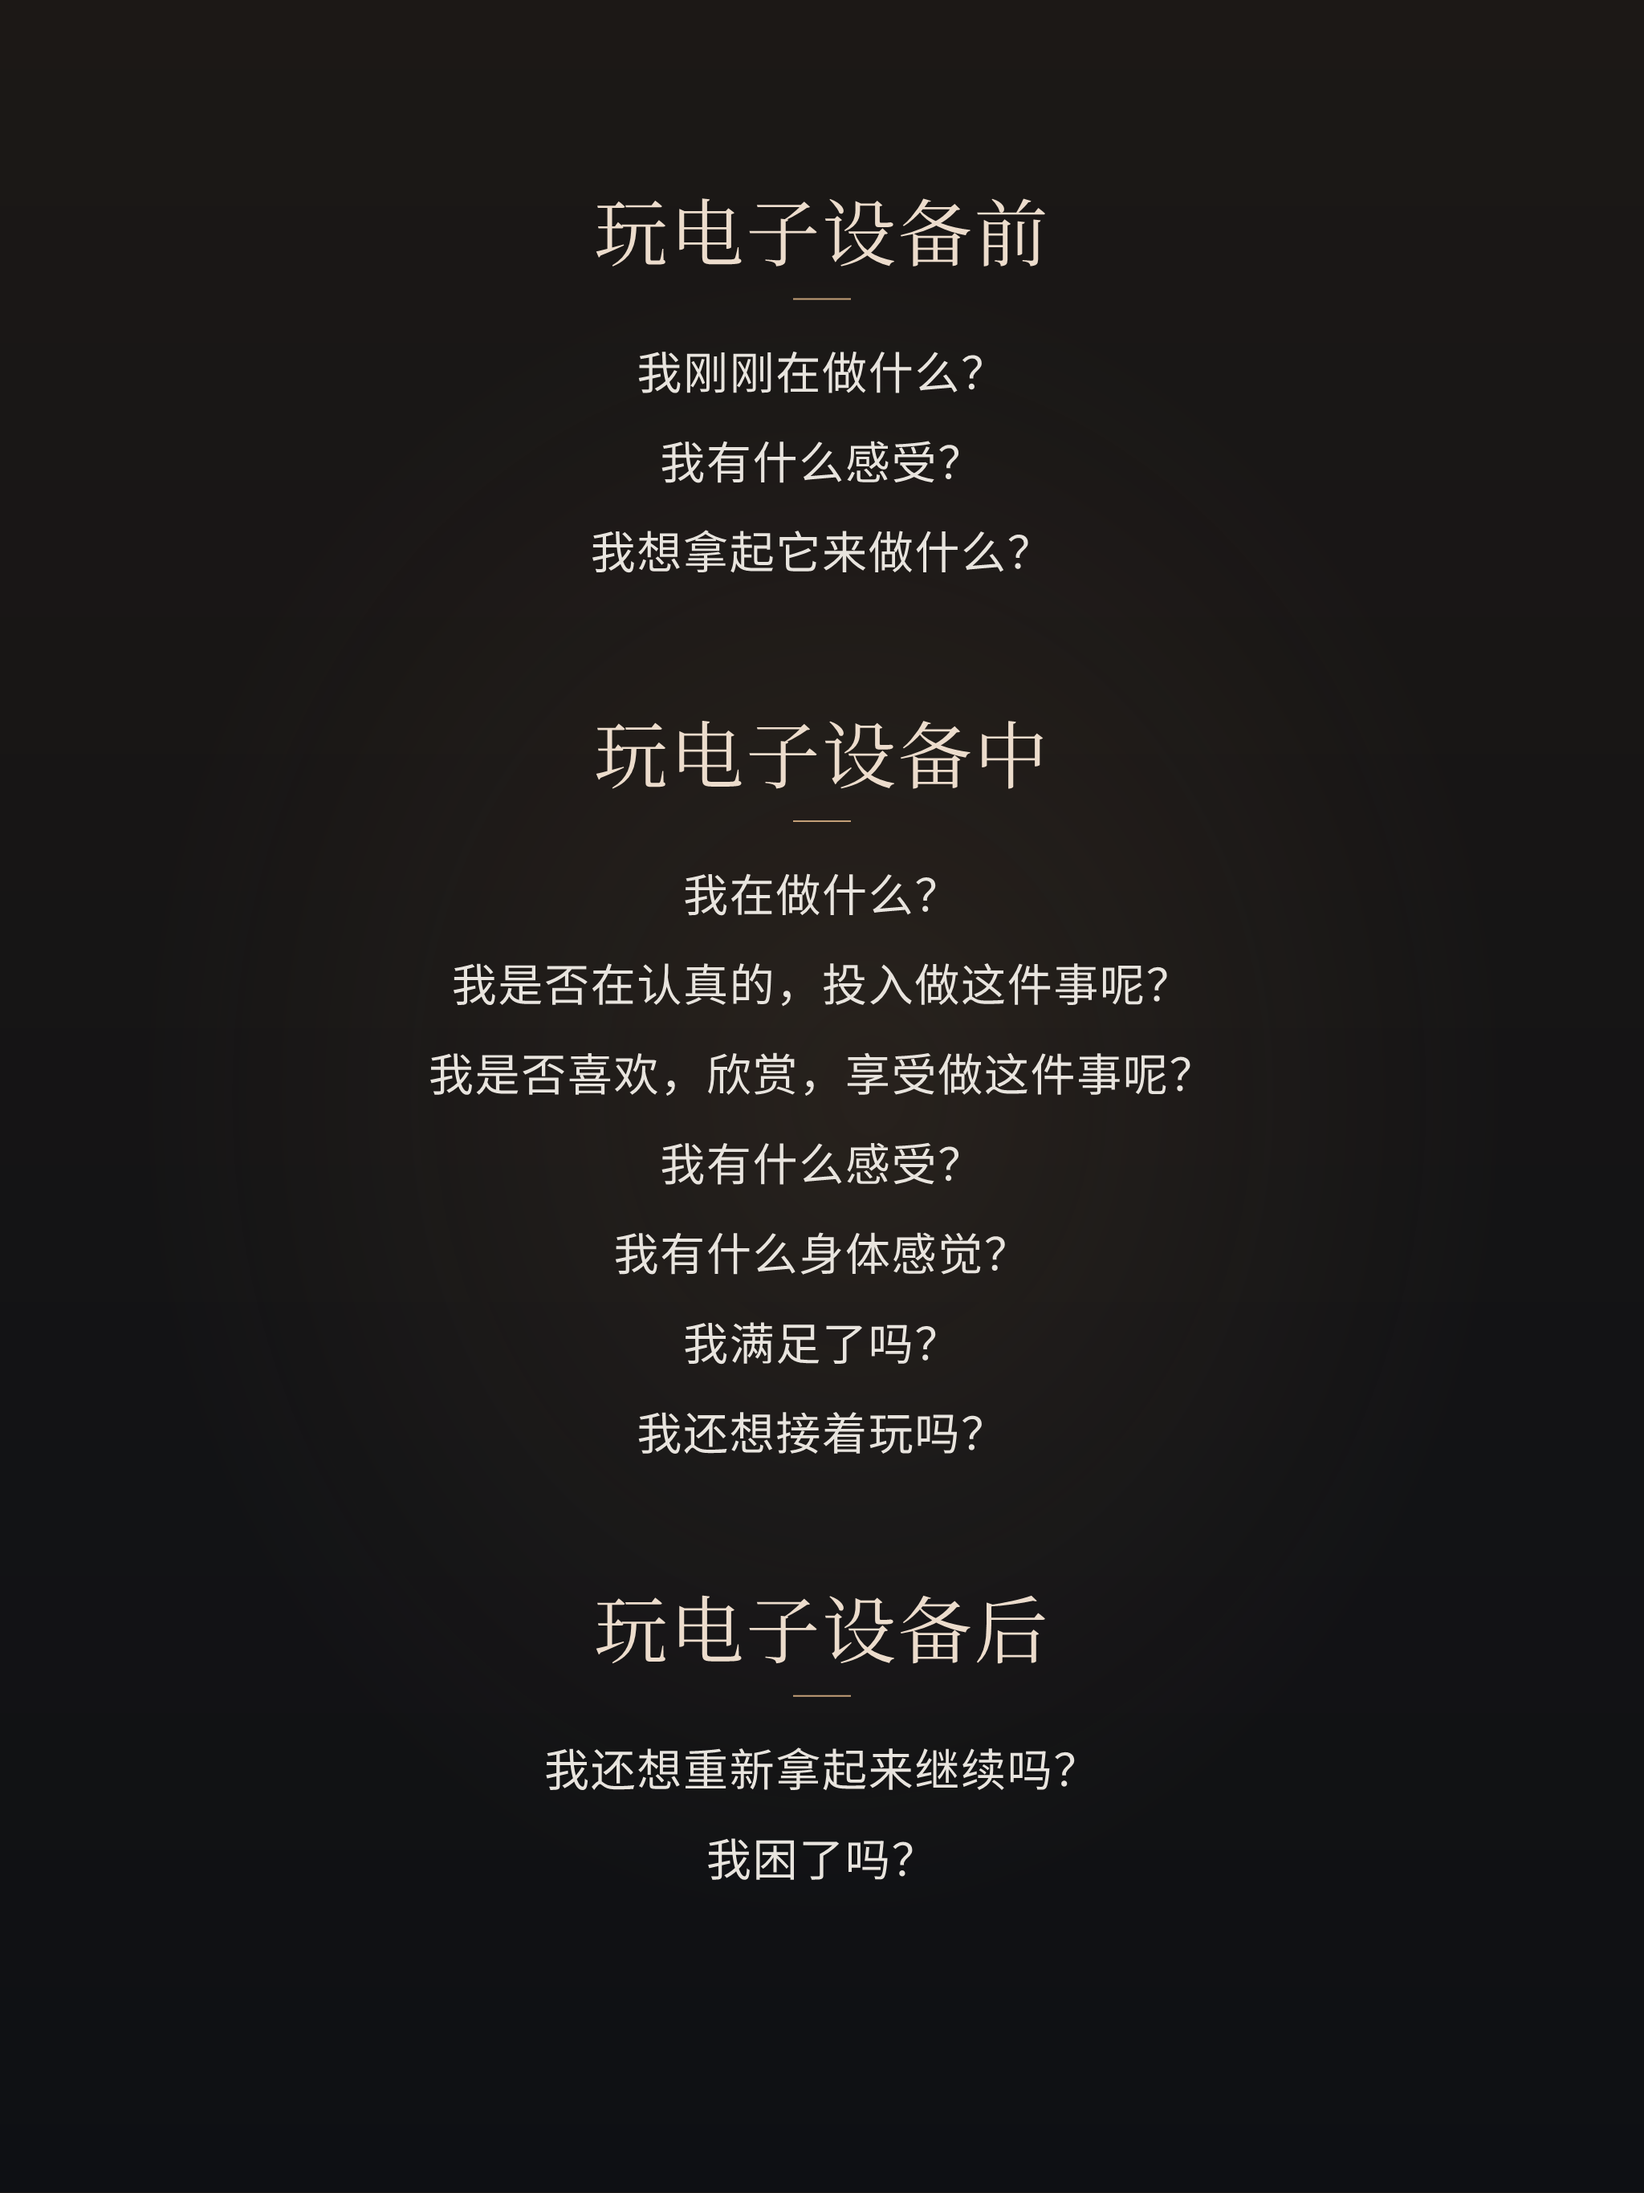
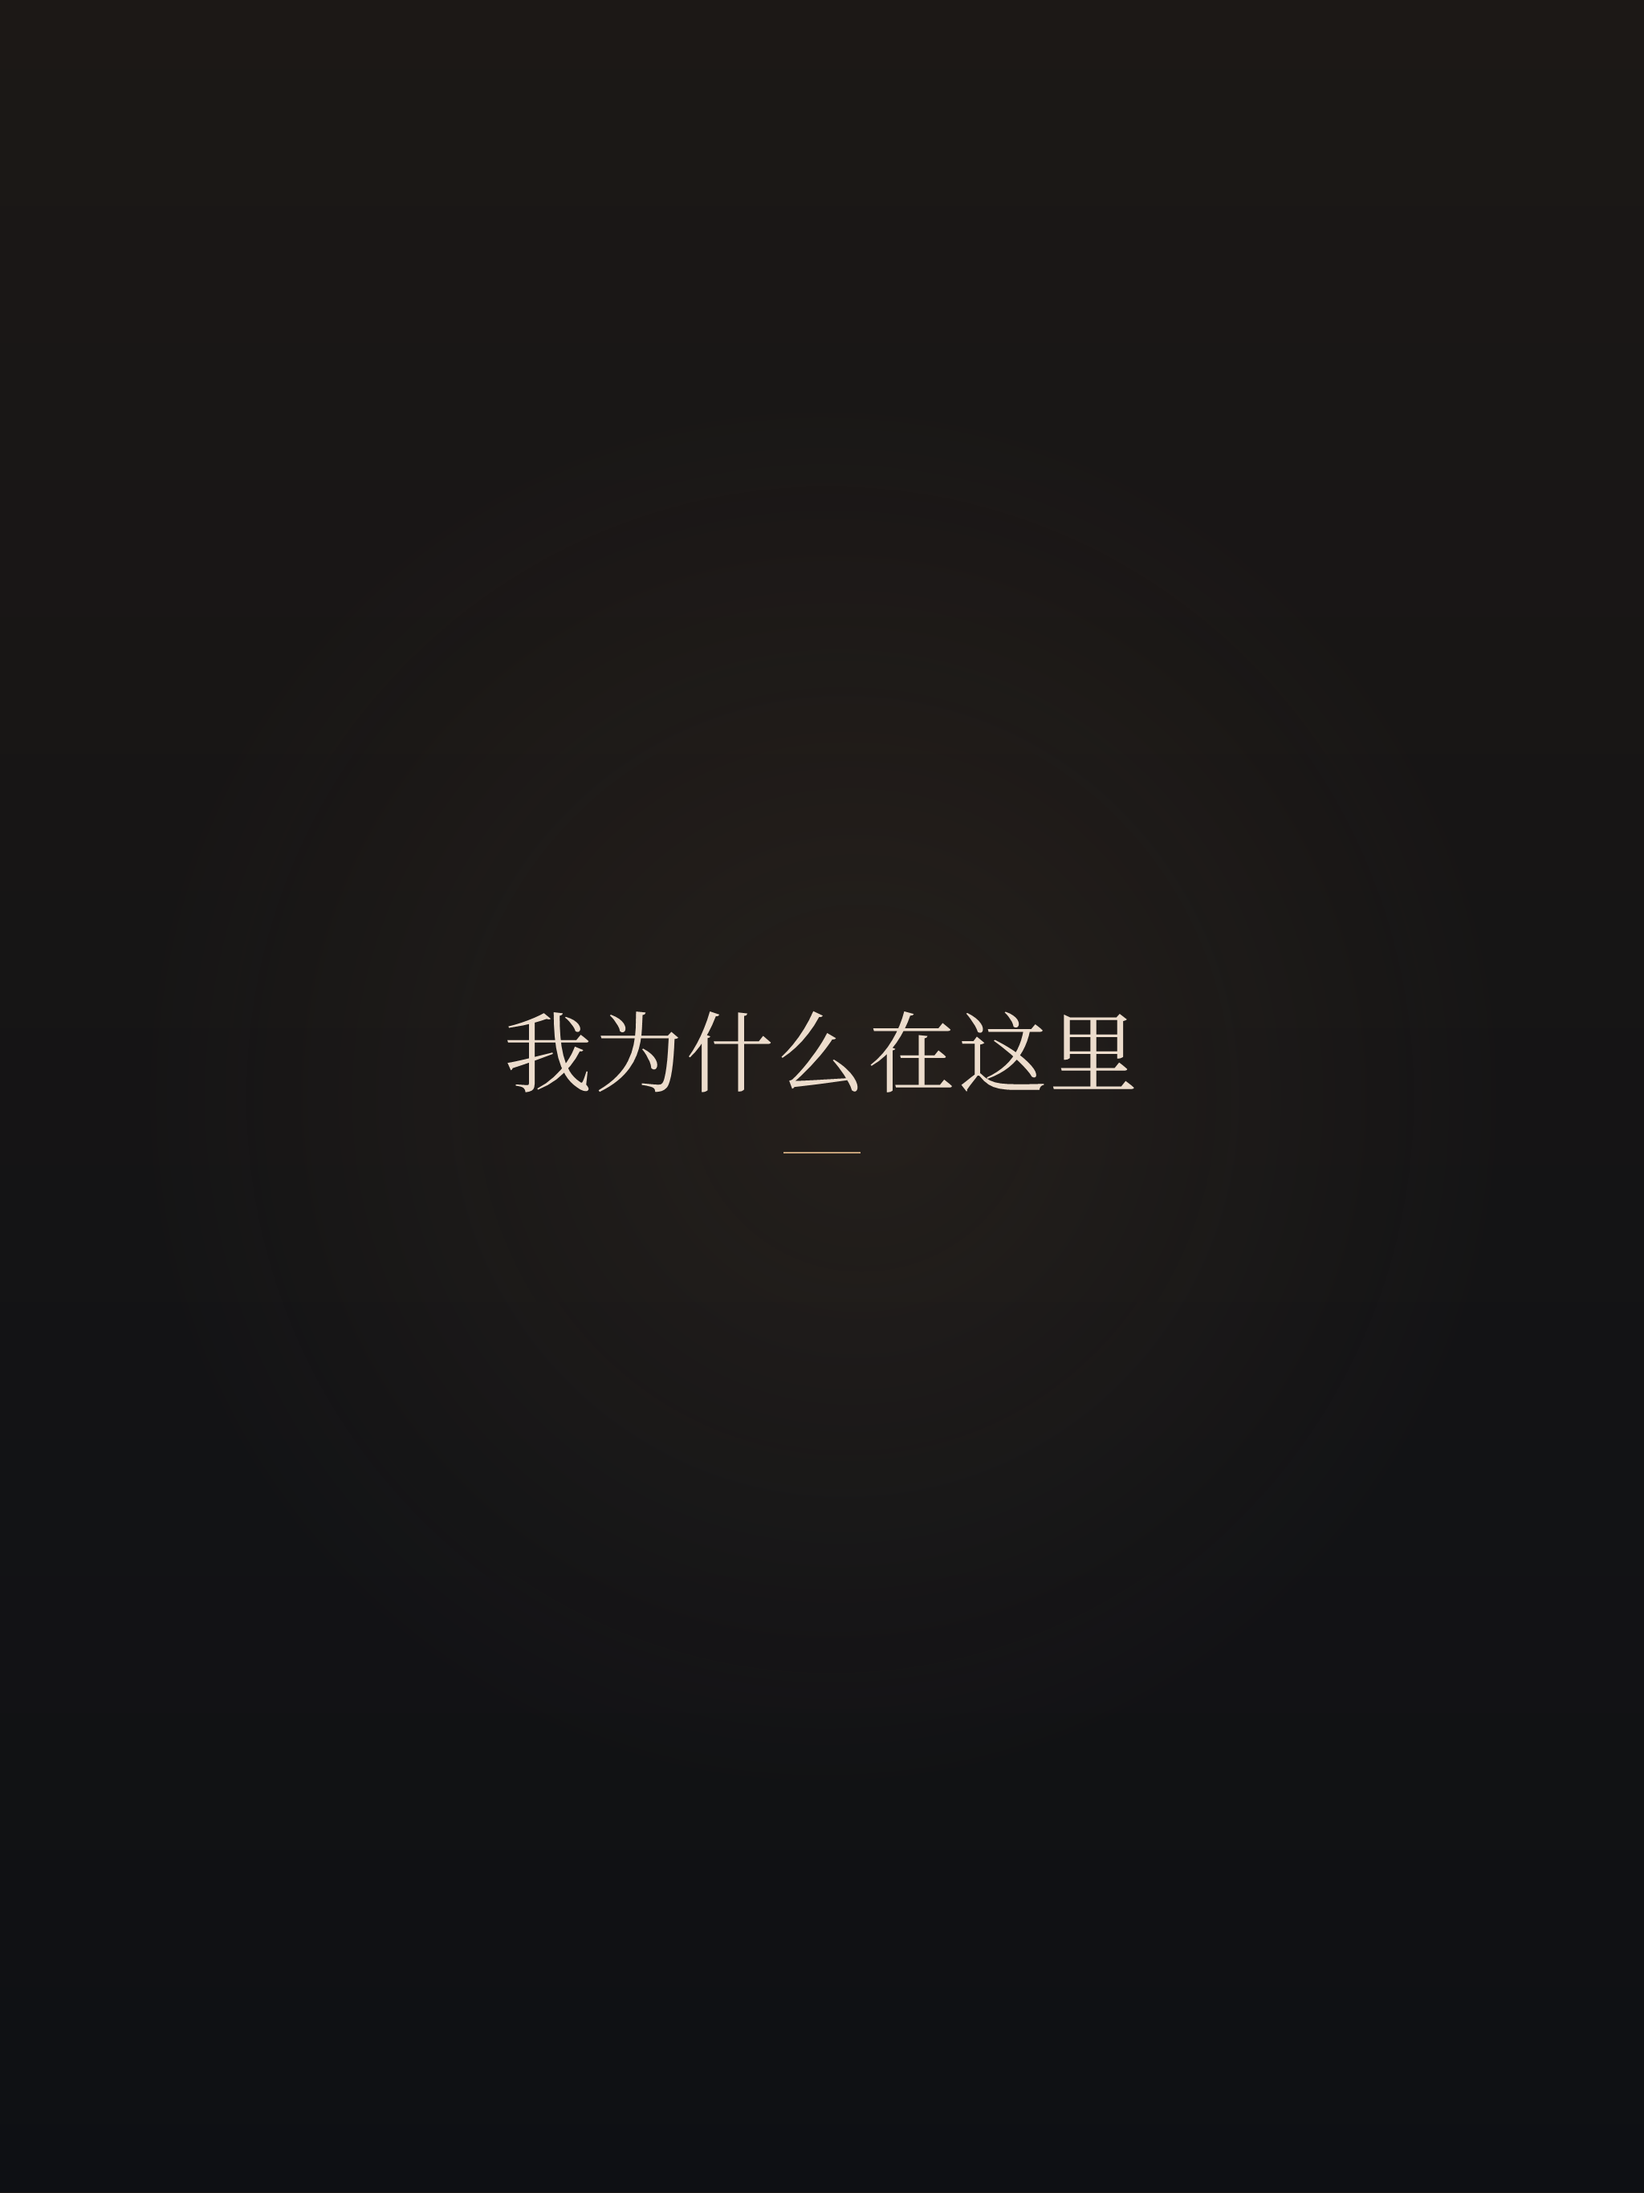
新增: 新内容

diff --git a/src/content/blog/个人记录/防御机制.md b/src/content/blog/个人记录/防御机制.md
@@ -43,7 +43,10 @@ tags:
 我的身体完全冻结了, 甚至无法站立, 只能蹲坐在地上或瘫倒在床上, 想哭也哭不出来, 这份麻木是在保护我, 还是让我错过生命中重要的事
 
 ## 讨好
-不想让别人失望, 不给别人添麻烦, 即使身体不适, 精疲力尽, 内心讨好的精神仍想要维持现状, 压抑自己的感受, 忍着身体的痛苦, 去做着空虚的事来换取安全感. 别人的评价, 让我失去了自我, 错过邂逅新的生活的机会
+不想让别人失望, 比如朋友, 孩子, 亲人, 陌生人, 即使即使我很不舒服, 我也会忍着, 做一些我不开心的事, 让他们开心, 不给他们添麻烦
+用硬撑换取别人的满意, 比如任务来了, 我首先想到的不是我能不能做, 而是我能不能交差, 于是我绕过不会的事实, 直接找捷径, AI生成, 花钱代做, 来维持一个我没问题的表象. 交差之后, 安全感短暂出现, 但紧接着的是更空虚和不安. 为了掩盖这层空虚, 我又要花时间精力编理由, 维持微笑
+同样的, 对自己也讨好, 失败时不复盘, 直接进入下一次, 生病时不敢研究病因, 随便找一个方法寄希望于好
+内心讨好的精神仍想要维持现状, 压抑自己的感受, 忍着身体的痛苦, 去做着空虚的事来换取安全感. 别人的评价, 让我失去了自我, 错过邂逅新的生活的机会
 
 ## 原因
 防御机制的强度和偏好和我的童年息息相关, 父母都是容易暴怒的人, 打骂, 摔砸我宝贵的东西, 和别人比较, 父母总是打压, 贬低, 否定我的努力.

diff --git a/src/content/blog/个人记录/自律能力.md b/src/content/blog/个人记录/自律能力.md
@@ -13,4 +13,4 @@ tags:
 我想克服这个困难，戒掉对刺激的依赖（比如短视频、色情内容）, 不能有一种刺激来替代另一种刺激, 以毒攻毒。因为我需要刺激才能驱动自己，但我想做到长期主义，去长期做一些低刺激、需要投入的事，比如唱歌、练习表达能力、学英语。  
 所以我需要一点点降低自己的刺激阈值，一次次地改善。比如在做困难的事时，可以允许自己先刷一会儿社交媒体内容, 主动觉察，色情内容坚决不碰，这是尊重自己。
 
-停下来, 去做我该做的事吧
+打个盹儿, 总会有一个想法或一个时刻值得反思, 我为什么在这里?
